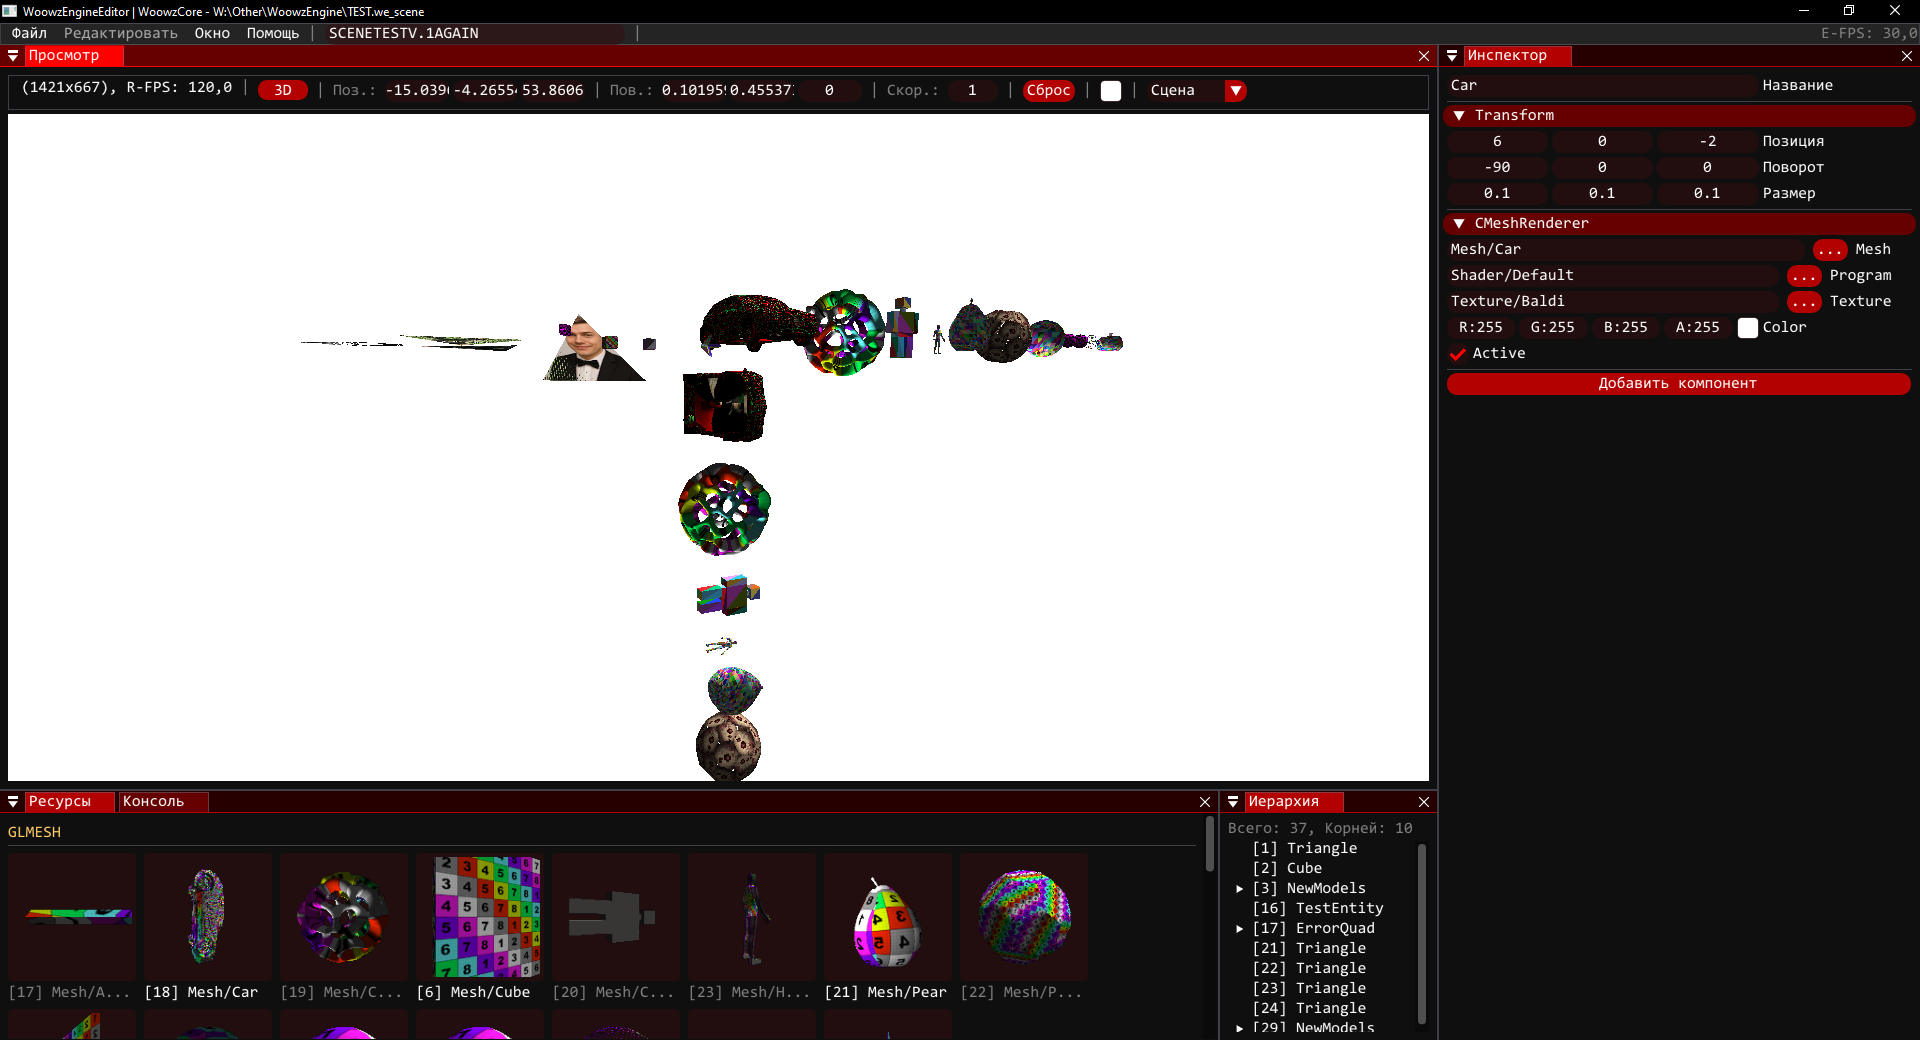
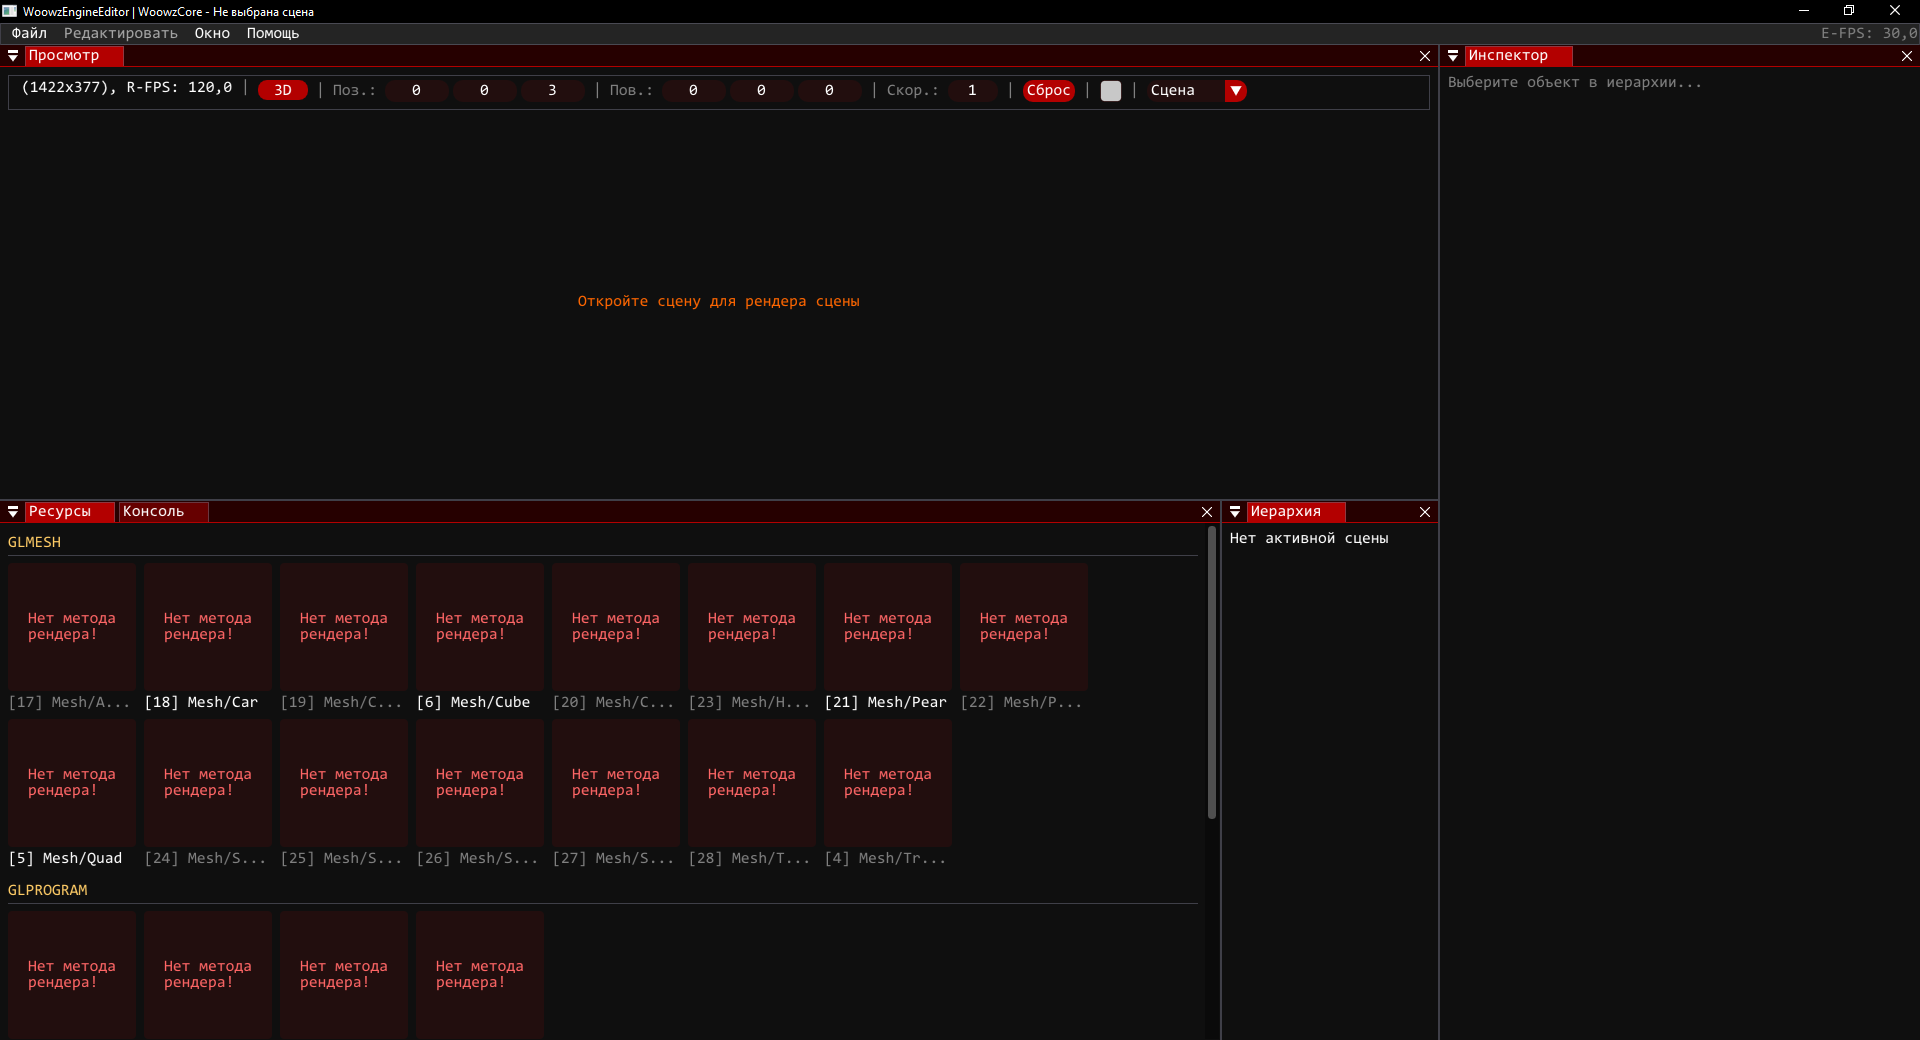
Добавлены методы WEE_OnPreviewRender 🎞
кастомный рендер превью, так же
Если методы не найдены будет предупреждение

diff --git a/WoowzEngine/WoowzEngineEditor/WEE/Interface/I_Assets.cs b/WoowzEngine/WoowzEngineEditor/WEE/Interface/I_Assets.cs
@@ -1,10 +1,12 @@
 using System.Numerics;
 using System.Runtime.InteropServices;
 using ImGuiNET;
+using WEI_Attribute;
 using WLO;
 using WLO.GPU;
 using WLO.Math;
 using WLO.Render;
+using WLO.Render.Hardware;
 
 namespace WEE_Interface;
 
@@ -35,6 +37,8 @@ public static class I_Assets{
 
                         float WindowVisibleRightEdge = ImGui.GetCursorScreenPos().X + ImGui.GetContentRegionAvail().X;
 
+                        WEE.Registry.RunMethods<WEE_OnPreAllPreviewRender>(false, WEE.Render.API, WEE.Cycle.Render_DTI, WEE.Cycle.Render_Time);
+                        
                         for(int i = 0; i < Keys.Count; i++){
                             string Key = Keys[i];
                             int ID = WE.Asset.GetID(Key);
@@ -84,62 +88,12 @@ public static class I_Assets{
                 }
             }
         } ImGui.End();
-
-        __PreviewRotation += WEE.Cycle.Render_DT / 2;
     }
 
     private static readonly Dictionary<int, GLTexture2D> __PreviewTextures = [];
     private static          GLView?                      __SharedPreviewView;
-    private static          float                        __PreviewRotation = 0;
-
-    private static void RenderAsset(object Asset){
-        Matrix4F View = Matrix4F.CreateLookAt(new Vector3F(0, 0, 5), new Vector3F(0, 0, 0), new Vector3F(0, 1, 0));
-        Matrix4F Projection = Matrix4F.CreatePerspective(45, 1, 0.1f, 100);
-        
-        WEE.Render.UB_Default.Update(new WEE.Render.UniformBlock_Default {
-            ViewProjection = Projection * View,
-            Time = (float)ImGui.GetTime()
-        });
-        
-        WEE.Render.API.Pool.SetUniformBlock(WEE.Render.UB_Default, 0, true);
-
-        const float PreviewScale = 4;
-        
-        Matrix4F CalculateModel(GLMesh Mesh){
-            Bounds3D Bounds = Mesh.Bounds;
-            
-            Matrix4F Translation = Matrix4F.CreateTranslation(-Bounds.Center);
-
-            float MaxDimension = System.Math.Max(Bounds.Size.X, System.Math.Max(Bounds.Size.Y, Bounds.Size.Z));
-            float ScaleFactor = (MaxDimension > 0.0001f) ? (PreviewScale / MaxDimension) : 1;
-            Matrix4F Scale = Matrix4F.CreateScale(new Vector3F(ScaleFactor, ScaleFactor, ScaleFactor));
-
-            Matrix4F Rotation = Matrix4F.CreateRotationY(__PreviewRotation);
-
-            return Rotation * Scale * Translation;
-        }
-        
-        GLTexture2D? TestTexture = WE.Asset.Resolve<GLTexture2D>(WE.Asset.GetID("Texture/Test"));
-        WEE.Render.API.Pool.SetTexture2D(TestTexture);
-        
-        if(Asset is GLMesh Mesh){
-            GLProgram? TestProgram = WE.Asset.Resolve<GLProgram>(WE.Asset.GetID("Shader/Default"));
-            if(TestProgram != null){
-                TestProgram.SetUniform(UniformValue.CreateM4F(0, CalculateModel(Mesh)));
-                TestProgram.SetUniform(UniformValue.CreateV3F(1, new Vector3F(1, 1, 1)));
-                WEE.Render.API.Draw(Mesh, TestProgram);
-            }
-        }else if(Asset is GLProgram Program){
-            GLMesh? TestMesh = WE.Asset.Resolve<GLMesh>(WE.Asset.GetID("Mesh/Sphere"));
-            if(TestMesh != null){
-                Program.SetUniform(UniformValue.CreateM4F(0, CalculateModel(TestMesh)));
-                Program.SetUniform(UniformValue.CreateV3F(1, new Vector3F(1, 1, 1)));
-                WEE.Render.API.Draw(TestMesh, Program);
-            }
-        }
-    }
     
-    private static void UpdateAssetPreview(object Asset, int ID){
+    private static void UpdateAssetPreview(object Asset, int ID, string Key){
         const int Size = 128;
 
         if(!__PreviewTextures.TryGetValue(ID, out GLTexture2D? Texture)){
@@ -158,24 +112,30 @@ public static class I_Assets{
         WEE.Render.API.Pool.SetView(__SharedPreviewView);
 
         __SharedPreviewView.SetTexture(Texture);
+
+        GLMesh?    TargetMesh    = null;
+        GLProgram? TargetProgram = null;
+
+        switch(Asset){
+            case GLMesh AssetMesh__:
+                TargetMesh = AssetMesh__;
+                break;
+            case GLProgram AssetProgram__:
+                TargetProgram = AssetProgram__;
+                break;
+        }
         
         WEE.Render.API.FrameStart();
-        
-            WEE.Render.API.Clear(Color4B.Transparent);
 
-            bool OldDepthTest = WEE.Render.API.Pool.GetDepthTest();
-            bool OldScissor   = WEE.Render.API.Pool.GetScissorTest();
-            bool OldCullFace  = WEE.Render.API.Pool.GetCullFace();
-            
-            WEE.Render.API.Pool.SetDepthTest(true);
-            WEE.Render.API.Pool.SetScissorTest(false);
-            WEE.Render.API.Pool.SetCullFace(false);
-            
-            RenderAsset(Asset);
-            
-            WEE.Render.API.Pool.SetDepthTest(OldDepthTest);
-            WEE.Render.API.Pool.SetScissorTest(OldScissor);
-            WEE.Render.API.Pool.SetCullFace(OldCullFace);
+            WEE.Registry.RunFirstDelegate<WEE_OnPreviewRender, Action<OpenGL, GLMesh?, GLProgram?, DeltaTimeInfo, object, int, string>>(true,
+                WEE.Render.API,
+                TargetMesh,
+                TargetProgram,
+                WEE.Cycle.Render_DTI,
+                Asset,
+                ID,
+                Key
+            );
             
         WEE.Render.API.FrameStop();
         
@@ -202,16 +162,22 @@ public static class I_Assets{
                 new Vector2(1, 0)
             );
         }else if(Asset is GLMesh || Asset is GLProgram){
-            UpdateAssetPreview(Asset, ID);
+            if(WEE.Registry.HasMethods<WEE_OnPreviewRender>()){
+                UpdateAssetPreview(Asset, ID, Key);
 
-            if(__PreviewTextures.TryGetValue(ID, out GLTexture2D? PreviewTexture)){
-                DrawList.AddImage(
-                    (IntPtr)PreviewTexture.ID,
-                    PMix,
-                    PMax,
-                    new Vector2(0, 1),
-                    new Vector2(1, 0)
-                );
+                if(__PreviewTextures.TryGetValue(ID, out GLTexture2D? PreviewTexture)){
+                    DrawList.AddImage(
+                        (IntPtr)PreviewTexture.ID,
+                        PMix,
+                        PMax,
+                        new Vector2(0, 1),
+                        new Vector2(1, 0)
+                    );
+                }
+            }else{
+                string WarningText = "Нет метода\nрендера!";
+                Vector2 TextSize = ImGui.CalcTextSize(WarningText);
+                DrawList.AddText(CursorPosition + (new Vector2(IconSize) - TextSize) * 0.5f, ImGui.GetColorU32(new Vector4(1, 0.4f, 0.4f, 1)), WarningText);
             }
         }else{
             string Label = Asset?.GetType().Name ?? "Null";

diff --git a/WoowzEngine/WoowzEngineEditor/WEE/Interface/I_View.cs b/WoowzEngine/WoowzEngineEditor/WEE/Interface/I_View.cs
@@ -1,5 +1,6 @@
 using System.Numerics;
 using ImGuiNET;
+using WEI_Attribute;
 using WEO;
 using WLO.Math;
 
@@ -129,18 +130,40 @@ public static class I_View{
             SceneViewSize = new Vector2I((int)__SceneViewport.X, (int)__SceneViewport.Y);
 
             if(WEE.Interface.CurrentScene != null){
-                uint TextureID = ShowWhat switch{
-                    ShowWhatType.Scene => WEE.Render.SceneView.TextureColor0!.ID,
-                    ShowWhatType.Depth => WEE.Render.SceneView.TextureDepth!.ID,
-                    ShowWhatType.Picking => WEE.Render.PickingView.TextureColor0!.ID
-                };
+                if(WEE.Registry.HasMethods<WEE_OnViewRender>()){
+                    uint TextureID = ShowWhat switch{
+                        ShowWhatType.Scene => WEE.Render.SceneView.TextureColor0!.ID,
+                        ShowWhatType.Depth => WEE.Render.SceneView.TextureDepth!.ID,
+                        ShowWhatType.Picking => WEE.Render.PickingView.TextureColor0!.ID
+                    };
                 
-                ImGui.Image((IntPtr)TextureID, __SceneViewport, new Vector2(0, 1), new Vector2(1, 0));
-                Vector2 ImagePositionMin = ImGui.GetItemRectMin();
-                ViewMousePosition = new Vector2I(
-                    (int)(WEE.Control.MousePosition.X - ImagePositionMin.X),
-                    (int)(WEE.Control.MousePosition.Y - ImagePositionMin.Y)
-                );
+                    ImGui.Image((IntPtr)TextureID, __SceneViewport, new Vector2(0, 1), new Vector2(1, 0));
+                    Vector2 ImagePositionMin = ImGui.GetItemRectMin();
+                    ViewMousePosition = new Vector2I(
+                        (int)(WEE.Control.MousePosition.X - ImagePositionMin.X),
+                        (int)(WEE.Control.MousePosition.Y - ImagePositionMin.Y)
+                    );
+                }else{
+                    string WarningText = "Укажите метод рендера сцены через атрибут [WEE_OnViewRender]!";
+                    Vector2 TextSize = ImGui.CalcTextSize(WarningText);
+                    
+                    ImGui.SetCursorPos(new Vector2(
+                        ImGui.GetCursorPosX() + (__SceneViewport.X - TextSize.X) * 0.5f,
+                        ImGui.GetCursorPosY() + (__SceneViewport.Y - TextSize.Y) * 0.5f
+                    ));
+                    ImGui.TextColored(new Vector4(1, 0.4f, 0, 1), WarningText);
+                }
+            }else{
+                // todo, Я НАХУЙ МЕГАТРОН, ДЕЛАЯ ПОВТОРЫ КОДА НАХУЙ Я МЕГАТРОН ДЕЛАЯ ПОВТОРЫ КОДА ПОВТОРЫ КОДА ПОВТОРЫ КОДА ПОВТОРИТЕ ПОЖАЛУЙСТА НЕ РАССЛЫШАЛ, ВЫ СКАЗАЛИ ПОВТОРЫ КОДА?
+                
+                string WarningText = "Откройте сцену для рендера сцены";
+                Vector2 TextSize = ImGui.CalcTextSize(WarningText);
+                    
+                ImGui.SetCursorPos(new Vector2(
+                    ImGui.GetCursorPosX() + (__SceneViewport.X - TextSize.X) * 0.5f,
+                    ImGui.GetCursorPosY() + (__SceneViewport.Y - TextSize.Y) * 0.5f
+                ));
+                ImGui.TextColored(new Vector4(1, 0.4f, 0, 1), WarningText);
             }
         } ImGui.End();
     }

diff --git a/WoowzEngine/WoowzEngineEditor/WEE/Render.cs b/WoowzEngine/WoowzEngineEditor/WEE/Render.cs
@@ -18,8 +18,6 @@ public static class Render{
         }, true);
         
         RecreateSceneFrameBuffer(new Vector2I(800, 600));
-
-        UB_Default = new UniformBlock<UniformBlock_Default>(API);
     }
     
     public static void Stop(){
@@ -32,8 +30,6 @@ public static class Render{
     
     public static GLView SceneView   = null!;
     public static GLView PickingView = null!;
-
-    public static UniformBlock<UniformBlock_Default> UB_Default = null!;
     
     private static void RecreateSceneFrameBuffer(Vector2I Size){
         if(SceneView != null!){ SceneView.Destroy(); }
@@ -68,13 +64,14 @@ public static class Render{
         
         API.FrameStart();
             if(WEE.Interface.CurrentScene != null){
-                WEE.Registry.RunFirstDelegate<WEE_OnViewRender, Action<OpenGL, Scene, Camera, Vector2I, Color4B, DeltaTimeInfo, bool>>(true,
+                WEE.Registry.RunFirstDelegate<WEE_OnViewRender, Action<OpenGL, Scene, Camera, Vector2I, Color4B, DeltaTimeInfo, float, bool>>(true,
                     WEE.Render.API,
                     WEE.Interface.CurrentScene,
                     WEE.Editor.ViewCamera,
                     TargetSize,
                     I_View.BackgroundColor,
                     DTI,
+                    WEE.Cycle.Render_Time,
                     false
                 );
             }
@@ -87,13 +84,14 @@ public static class Render{
         
         API.FrameStart();
             if(WEE.Interface.CurrentScene != null){
-                WEE.Registry.RunFirstDelegate<WEE_OnViewRender, Action<OpenGL, Scene, Camera, Vector2I, Color4B, DeltaTimeInfo, bool>>(true,
+                WEE.Registry.RunFirstDelegate<WEE_OnViewRender, Action<OpenGL, Scene, Camera, Vector2I, Color4B, DeltaTimeInfo, float, bool>>(true,
                     WEE.Render.API,
                     WEE.Interface.CurrentScene,
                     WEE.Editor.ViewCamera,
                     TargetSize,
                     Color4B.Black,
                     DTI,
+                    WEE.Cycle.Render_Time,
                     true
                 );
             }
@@ -102,13 +100,7 @@ public static class Render{
     
     public static void MainRender(DeltaTimeInfo DTI){
         try{
-            UB_Default.Update(new UniformBlock_Default{
-                ViewProjection = WEE.Editor.ViewCamera.GetProjectionMatrix() * WEE.Editor.ViewCamera.GetViewMatrix(),
-                Time = WEE.Cycle.Render_Time
-            });
-            API.Pool.SetUniformBlock(UB_Default, 0);
-            
-            ViewRender(DTI);
+            if(WEE.Registry.HasMethods<WEE_OnViewRender>()){ ViewRender(DTI); }
             
             API.Pool.SetView(null);
             
@@ -123,17 +115,5 @@ public static class Render{
         }catch(Exception e){
             throw new ExceptionWEE("Произошла ошибка в главном рендере!", e);
         }
-    }
-    
-    // ----------------------------------------------------------------------
-    
-    [StructLayout(LayoutKind.Sequential, Pack = 4)]
-    public struct UniformBlock_Default{
-        public Matrix4F ViewProjection;
-        public float    Time;
-        
-        private float __0; 
-        private float __1;
-        private float __2;
     }
 }

diff --git a/WoowzEngine/WoowzEngineEditor/WEE/Registry.cs b/WoowzEngine/WoowzEngineEditor/WEE/Registry.cs
@@ -42,7 +42,7 @@ public static class Registry{
         }
     }
 
-    public static void RunMethods<T>(bool Notify, params object[] Args) where T : Attribute{
+    public static void RunMethods<T>(bool Notify, params object?[] Args) where T : Attribute{
         if(Notify){ WL.Logger.Debug($"Поиск и выполнение методов с атрибутом [{typeof(T).Name}]..."); }
 
         Type TargetAttribute = typeof(T);
@@ -89,7 +89,7 @@ public static class Registry{
         return null;
     }
 
-    public static object? RunFirstDelegate<T, TD>(bool Notify, params object[] Args) where TD : Delegate{
+    public static object? RunFirstDelegate<T, TD>(bool Notify, params object?[] Args) where TD : Delegate{
         TD? Delegate = GetFirstDelegate<T, TD>();
         if(Delegate != null){
             try{
@@ -104,6 +104,8 @@ public static class Registry{
 
         return null;
     }
+
+    public static bool HasMethods<T>() where T : Attribute => __CachedMethods.TryGetValue(typeof(T), out List<MethodInfo>? Methods) && Methods.Count > 0;
     
     public static void ResetAndReload(Assembly? GameAssembly = null){
         WL.Logger.Info("Обновление компонентов...");

diff --git a/WoowzEngine/WoowzEngineEditor/WEE/Cycle.cs b/WoowzEngine/WoowzEngineEditor/WEE/Cycle.cs
@@ -68,7 +68,7 @@ public static class Cycle{
     public static DeltaTimeInfo Render_DTI;
     public static DeltaTimeInfo Engine_DTI;
     
-    public static float         Render_DT;
+    public static float Render_DT;
     
-    public static float         Render_Time;
+    public static float Render_Time;
 }

diff --git a/WoowzEngine/WoowzEngine/WEI/Attribute/WEE_OnPreAllPreviewRender.cs b/WoowzEngine/WoowzEngine/WEI/Attribute/WEE_OnPreAllPreviewRender.cs
@@ -1,0 +1,4 @@
+namespace WEI_Attribute;
+
+[AttributeUsage(AttributeTargets.Method)]
+public class WEE_OnPreAllPreviewRender : Attribute{}
